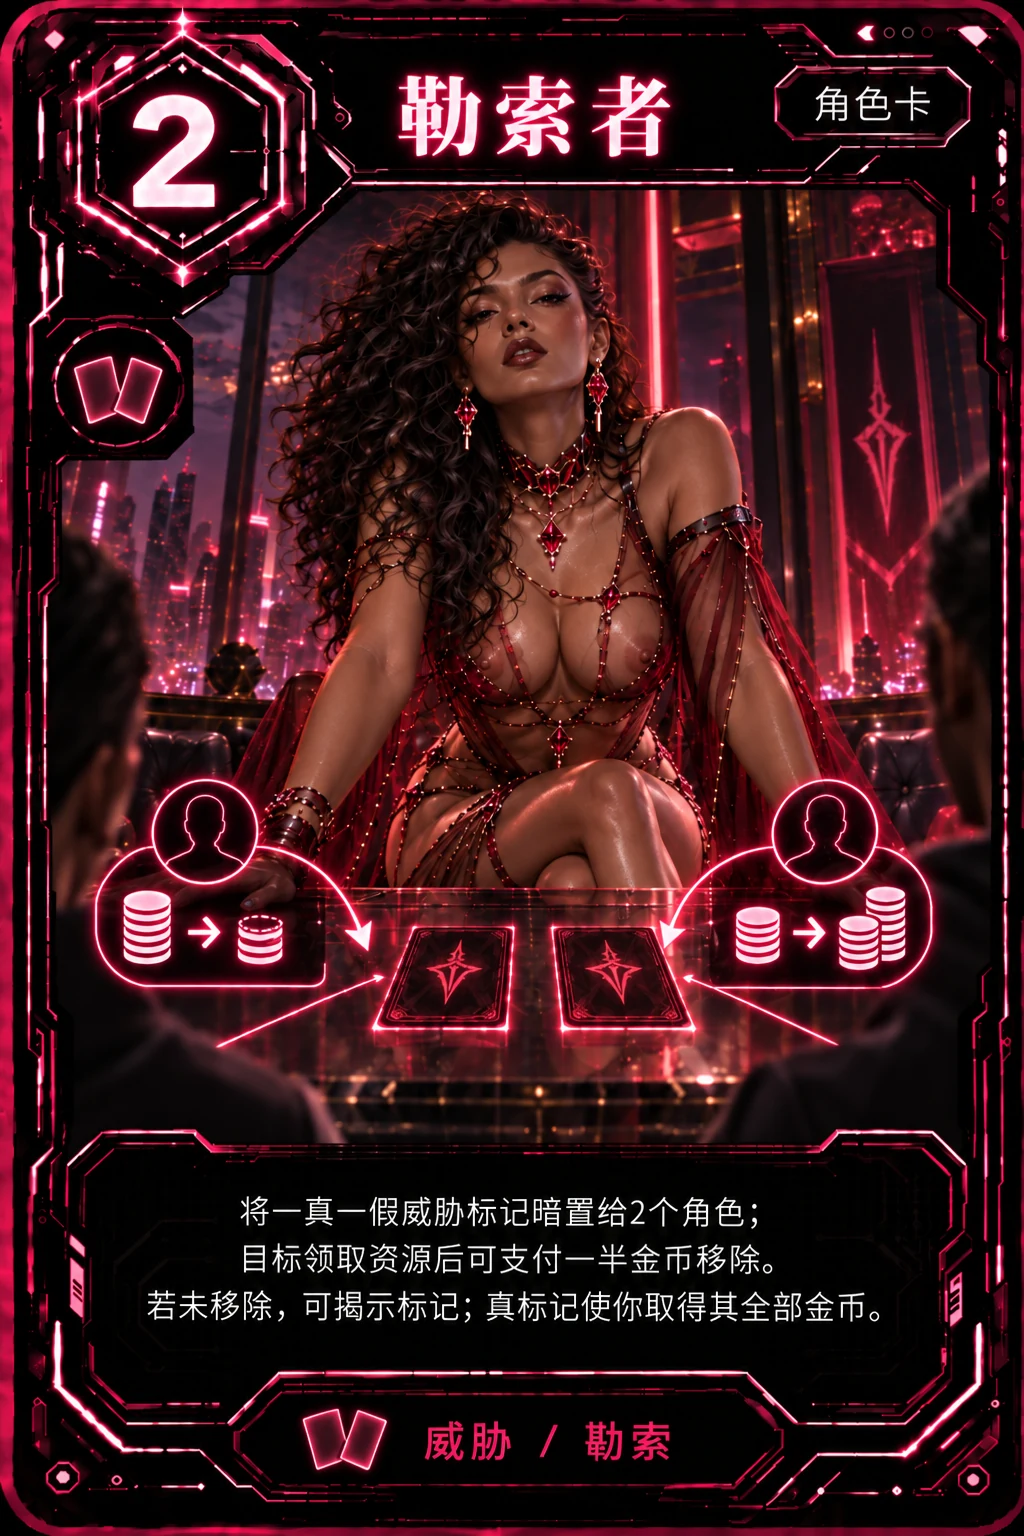
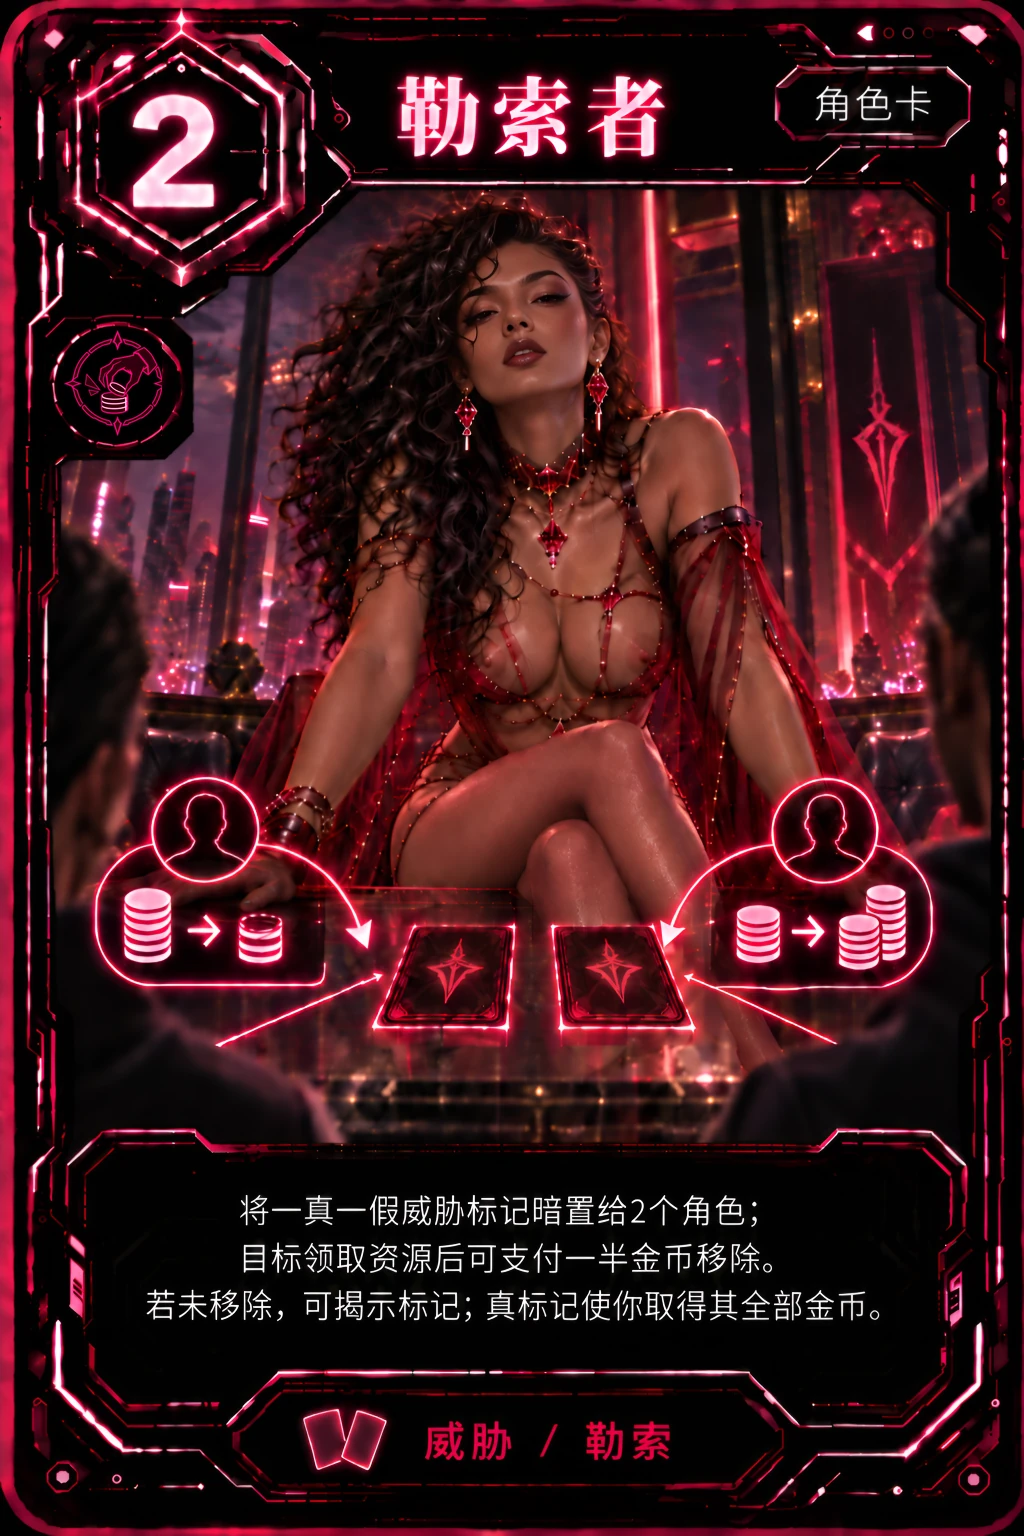
feat(neon): 更新勒索者角色卡图

diff --git a/public/themes/neon/manifest.js b/public/themes/neon/manifest.js
@@ -22,9 +22,11 @@
   ];
 
   function variants(folder, key) {
-    // 墓地卡图曾把建造费用 5 错印成能力支付费用 1；单独版本化，
-    // 让已安装 PWA 绕过旧图片的 HTTP / Service Worker 缓存。
-    const version = folder === 'districts' && key === 'graveyard' ? '?v=2' : '';
+    // 墓地卡图曾把建造费用 5 错印成能力支付费用 1，勒索者卡图已更新；
+    // 单独版本化，让已安装 PWA 绕过旧图片的 HTTP / Service Worker 缓存。
+    const versioned = (folder === 'districts' && key === 'graveyard') ||
+      (folder === 'roles' && key === 'blackmailer');
+    const version = versioned ? '?v=2' : '';
     return {
       thumb: base + folder + '/thumb/' + key + '.webp' + version,
       full: base + folder + '/full/' + key + '.webp' + version

diff --git a/public/app.js b/public/app.js
@@ -3994,7 +3994,7 @@
   window.__CitadelsApp = App;
   // PWA：支持从主屏幕/桌面以独立窗口启动；联机功能仍需网络连接服务器。
   if (typeof navigator !== 'undefined' && navigator.serviceWorker && location.protocol !== 'file:') {
-    navigator.serviceWorker.register('./sw.js?v=9', { scope: './' }).then(registration => {
+    navigator.serviceWorker.register('./sw.js?v=10', { scope: './' }).then(registration => {
       // GitHub Pages 上的 PWA 可能长时间保持旧 worker，启动时主动检查一次新版本。
       registration.update().catch(() => {});
       registration.addEventListener('updatefound', () => {

diff --git a/test/theme-assets.js b/test/theme-assets.js
@@ -48,6 +48,10 @@ const graveyardCard = Cards.DISTRICTS.find(d => d.en === 'Graveyard');
 if (!graveyardCard || graveyardCard.cost !== 5 || !/支付1枚金币/.test(graveyardCard.desc)) {
   throw new Error('墓地规则应为建造费用 5，发动回收能力支付 1 金');
 }
+const blackmailer = manifest.cards.roles.blackmailer;
+if (!/blackmailer\.webp\?v=2$/.test(blackmailer.thumb) || !/blackmailer\.webp\?v=2$/.test(blackmailer.full)) {
+  throw new Error('勒索者更新卡图缺少缓存版本标记');
+}
 
 const roleKeys = Object.keys(manifest.cards.roles);
 const districtKeys = Object.keys(manifest.cards.districts);

diff --git a/public/index.html b/public/index.html
@@ -393,7 +393,7 @@
   </div>
 </div>
 
-<script src="./themes/neon/manifest.js?v=4"></script>
+<script src="./themes/neon/manifest.js?v=5"></script>
 <script src="./themes/theme-manager.js?v=2"></script>
 <script src="./src/cards.js?v=4"></script>
 <script src="./src/engine.js?v=14"></script>

diff --git a/public/sw.js b/public/sw.js
@@ -1,4 +1,4 @@
-const CACHE_NAME = 'citadels-shell-v19';
+const CACHE_NAME = 'citadels-shell-v20';
 const APP_SHELL = [
   './', './index.html', './manifest.json', './style.css',
   './themes/neon/theme.css', './themes/neon/manifest.js', './themes/theme-manager.js',
